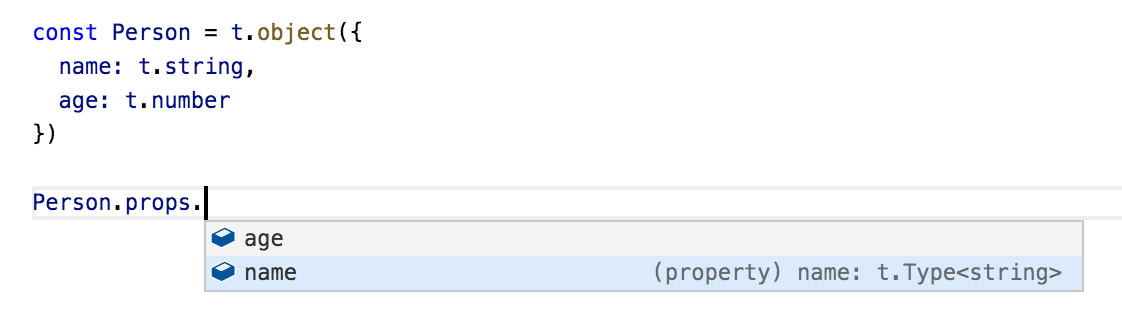
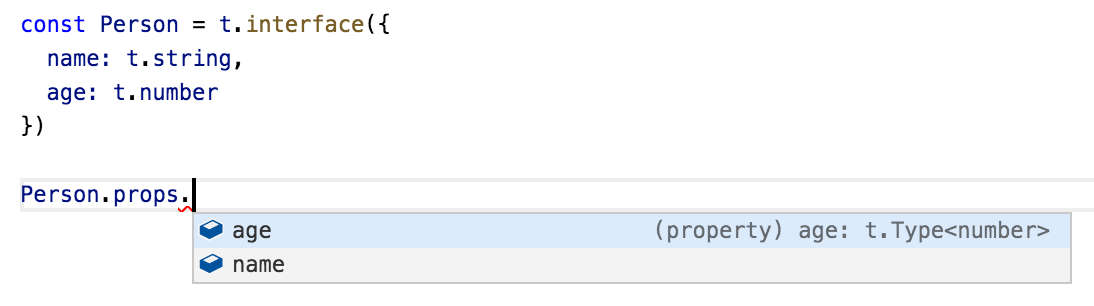
remove fromValidation API, fix #22 (#23)
* remove fromValidation API, fix #22

* Add Integer type, fix #16

* update readme

* update CHANGELOG

diff --git a/src/index.ts b/src/index.ts
@@ -70,13 +70,6 @@ export function validate<T>(value: any, type: Type<T>): Validation<T> {
   return type.validate(value, getDefaultContext(type))
 }
 
-export function fromValidation<T>(value: any, type: Type<T>): T {
-  return validate(value, type).fold<T>(
-    () => { throw new Error('Validation returned a Left') },
-    x => x
-  )
-}
-
 //
 // literal types
 //
@@ -114,7 +107,7 @@ export function keyof<D extends { [key: string]: any }>(map: D, name?: string): 
 }
 
 //
-// irreducibles
+// default types
 //
 
 function isNil(v: any): v is (null | undefined) {
@@ -186,6 +179,8 @@ export function refinement<RT extends Any>(type: RT, predicate: Predicate<TypeOf
     predicate
   )
 }
+
+export const Integer = refinement(number, n => n % 1 === 0, 'Integer')
 
 //
 // recursive types

diff --git a/test/intersection.ts b/test/intersection.ts
@@ -1,3 +1,4 @@
+import { isRight } from 'fp-ts/lib/Either'
 import * as assert from 'assert'
 import * as t from '../src/index'
 import {
@@ -17,8 +18,12 @@ describe('intersection', () => {
 
   it('should remove unknown properties', () => {
     const T = t.intersection([t.interface({ a: t.number }), t.interface({ b: t.number })])
-    const value = t.fromValidation({ a: 1, b: 1, c: true }, T)
-    assert.deepEqual(value, { a: 1, b: 1 })
+    const validation = t.validate({ a: 1, b: 1, c: true }, T)
+    if (isRight(validation)) {
+      assert.deepEqual(validation.value, { a: 1, b: 1 })
+    } else {
+      assert.ok(false)
+    }
   })
 
   it('should return the same reference if validation succeeded and nothing changed', () => {

diff --git a/test/interface.ts b/test/interface.ts
@@ -1,3 +1,4 @@
+import { isRight } from 'fp-ts/lib/Either'
 import * as assert from 'assert'
 import * as t from '../src/index'
 import {
@@ -17,8 +18,12 @@ describe('interface', () => {
 
   it('should remove unknown properties', () => {
     const T = t.interface({ a: t.string })
-    const value = t.fromValidation({ a: 's', b: 1 }, T)
-    assert.deepEqual(value, { a: 's' })
+    const validation = t.validate({ a: 's', b: 1 }, T)
+    if (isRight(validation)) {
+      assert.deepEqual(validation.value, { a: 's' })
+    } else {
+      assert.ok(false)
+    }
   })
 
   it('should return the same reference if validation succeeded and nothing changed', () => {

diff --git a/test/default-types.ts b/test/default-types.ts
@@ -38,3 +38,17 @@ describe('Dictionary', () => {
   })
 
 })
+
+describe('Integer', () => {
+
+  it('should validate integers', () => {
+    assertSuccess(t.validate(1, t.Integer))
+    assertFailure(t.validate(0.5, t.Integer), [
+      'Invalid value 0.5 supplied to : Integer'
+    ])
+    assertFailure(t.validate('foo', t.Integer), [
+      'Invalid value "foo" supplied to : Integer'
+    ])
+  })
+
+})

diff --git a/README.md b/README.md
@@ -5,6 +5,7 @@ A value of type `Type<T>` (called "runtime type") is the runtime representation 
 ```js
 class Type<T> {
   constructor(public readonly name: string, public readonly validate: Validate<T>) {}
+  is(x: any): x is T
 }
 ```
 
@@ -19,6 +20,7 @@ type Validate<T> = (value: any, context: Context) => Either<Array<ValidationErro
 A runtime type representing `string` can be defined as
 
 ```js
+import { Right, Left } from 'fp-ts/lib/Either'
 import * as t from 'io-ts'
 
 const string = new t.Type<string>(
@@ -30,7 +32,7 @@ const string = new t.Type<string>(
 A runtime type can be used to validate an object in memory (for example an API payload)
 
 ```js
-const Person = t.object({
+const Person = t.interface({
   name: t.string,
   age: t.number
 })
@@ -122,6 +124,7 @@ import * as t from 'io-ts'
 | undefined | `undefined` | `t.undefined` |
 | string | `string` | `t.string` |
 | number | `number` | `t.number` |
+| integer | ✘ | `t.Integer` |
 | boolean | `boolean` | `t.boolean` |
 | generic array | `Array<any>` | `t.Array` |
 | generic dictionary | `{ [key: string]: any }` | `t.Dictionary` |

diff --git a/CHANGELOG.md b/CHANGELOG.md
@@ -16,6 +16,7 @@
 
 - **New Feature**
   - add support for jsnext
+  - add `Integer` type
 
 - **Breaking Changes**
   - `t.Object` type. Renamed to `t.Dictionary`, now accepts arrays so is fully equivalent to `{ [key: string]: any }`.
@@ -25,6 +26,7 @@
   - `intersection` combinator. Due to the new excess property pruning in `t.interface` now only accept `InterfaceType`s.
   - API `isSuccess` removed, use `either.isRight` instead
   - API `isFailure` removed, use `either.isLeft` instead
+  - API `fromValidation` removed
 
 # 0.0.2
 
